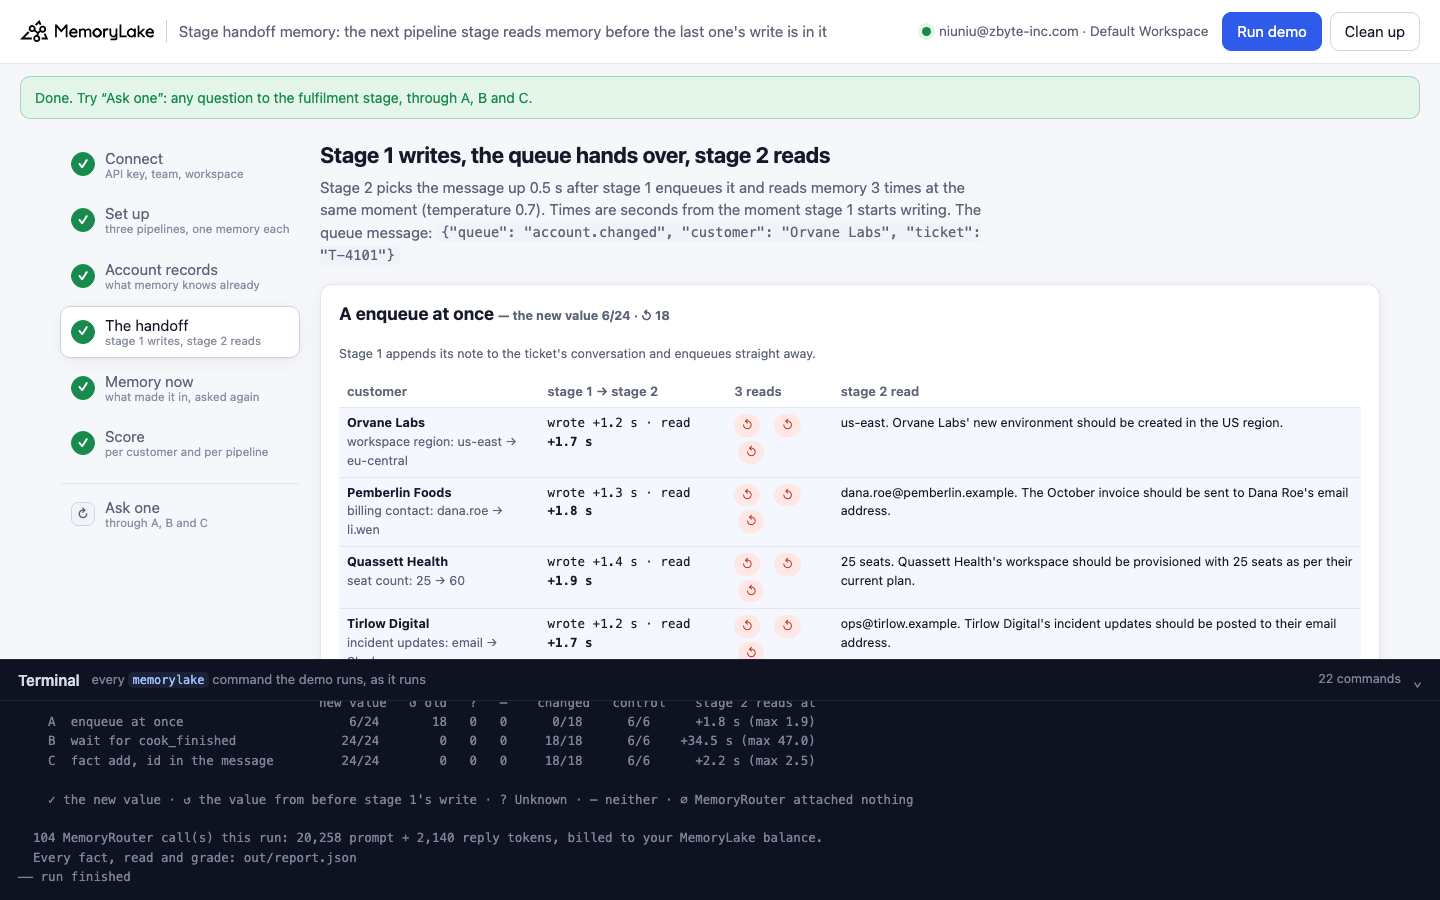
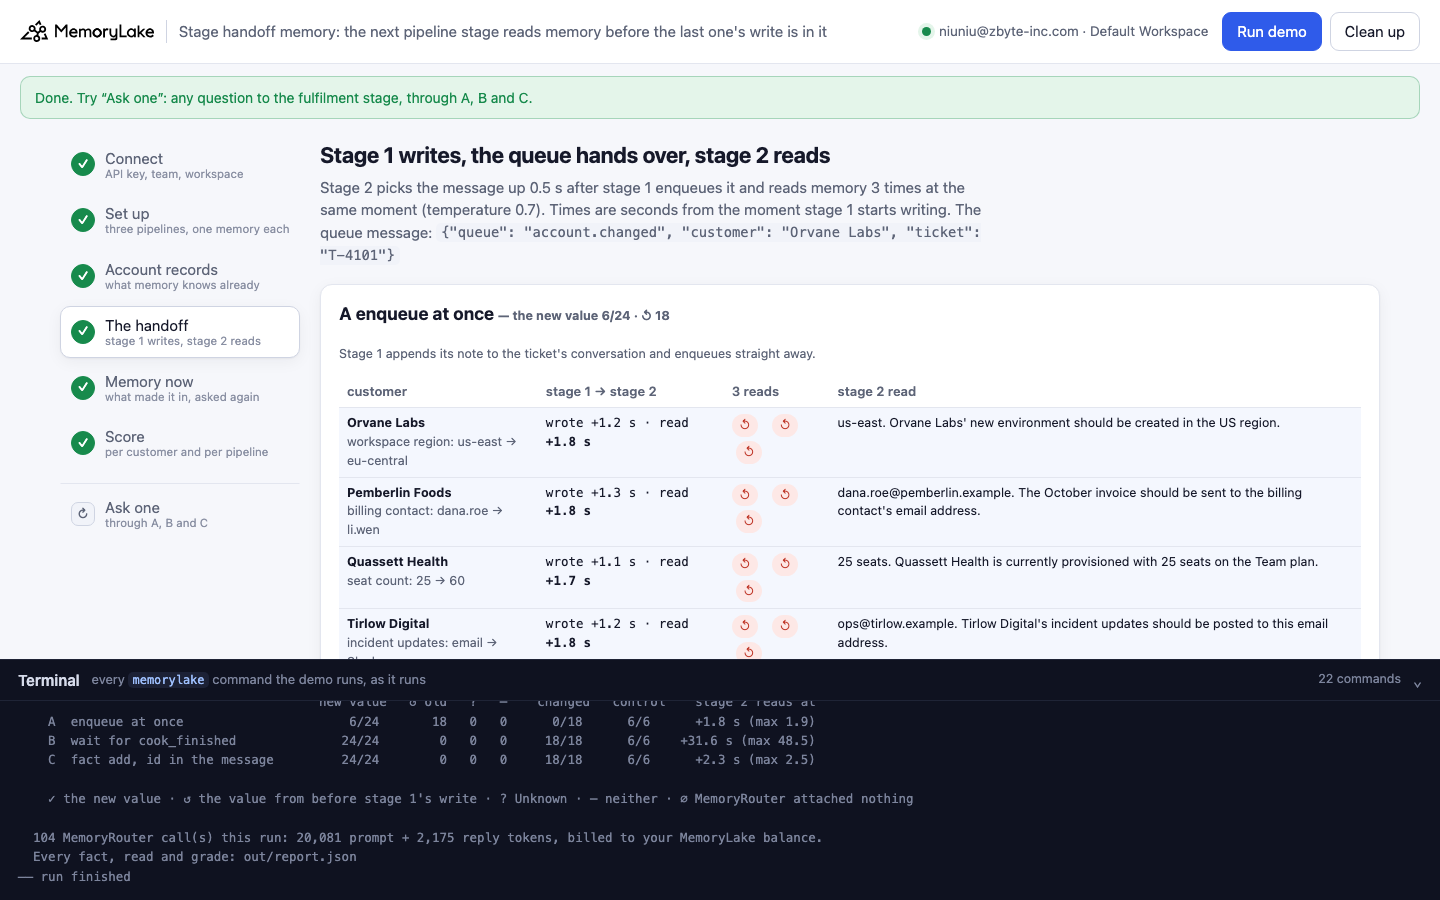
docs(stage-handoff-memory): videos on the v1 release; totals over 7 runs

diff --git a/stage-handoff-memory/README.md b/stage-handoff-memory/README.md
@@ -4,7 +4,8 @@ A runnable version of the MemoryLake use case
 [*Memory for Queue-Driven Agent Pipelines*](https://www.memorylake.ai/en/usecase/memory-for-queue-driven-agent-pipelines),
 built entirely on the [`memorylake` CLI](https://github.com/memorylake-ai/memorylake-cli) (v20261015 or later).
 
-**Watch it run:** videos are being recorded.
+**Watch it run:** [CLI, 4:59](https://github.com/memorylake-ai/memorylake-usecases/releases/download/stage-handoff-memory-v1/stage-handoff-memory-cli-demo.mp4) · [Web, 4:21](https://github.com/memorylake-ai/memorylake-usecases/releases/download/stage-handoff-memory-v1/stage-handoff-memory-web-demo.mp4)
+([release](https://github.com/memorylake-ai/memorylake-usecases/releases/tag/stage-handoff-memory-v1); GitHub serves them as downloads).
 
 **The problem.** In a queue-driven pipeline the messages stay light: stage 1 writes what it learned into shared
 memory and enqueues an id; stage 2 picks the message up and reads the context from memory. The queue hands a message
@@ -36,18 +37,18 @@ handoff runs through three pipelines, each with its own memory:
 | **B** | appends its note, waits until `conv consumed-messages --message` lists it and `conv cook-status` reports `cook_finished`, then enqueues | after extraction: 11 to 77 s |
 | **C** | appends its note **and** writes its result with `fact add` — dated, naming the value it replaces — then puts the fact id in the queue message and enqueues at once | about 2.5 s after the write |
 
-Over five runs (each read three times at temperature 0.7 — 72 reads per run):
+Over seven runs (each read three times at temperature 0.7 — 72 reads per run):
 
 | pipeline | the new value | ↺ the old value | changed customers | controls | stage 2 reads at (median) |
 |---|---|---|---|---|---|
-| A enqueue at once | 30/120 | **90** | **0/90** | 30/30 | +1.8 s |
-| B wait for `cook_finished` | 114/120 | 0 | 90/90 | **24/30** | **+38.8 s** (max 77.1) |
-| C `fact add` + id in the message | **120/120** | 0 | **90/90** | 30/30 | +2.4 s |
+| A enqueue at once | 42/168 | **126** | **0/126** | 42/42 | +1.8 s |
+| B wait for `cook_finished` | 162/168 | 0 | 126/126 | **36/42** | **+37.3 s** (max 77.1) |
+| C `fact add` + id in the message | **168/168** | 0 | **126/126** | 42/42 | +2.4 s |
 
-- **A** read the old value every time a value had changed: 90 of 90 reads, in every run. The controls were right
+- **A** read the old value every time a value had changed: 126 of 126 reads, in every run. The controls were right
   because nothing about them had changed.
-- **B** is right about the changed customers, but stage 2 waits a median 39 s for each message, and waiting made a
-  control wrong: in three runs out of five, extraction wrote Orvane's note as a fact with **no customer in it** —
+- **B** is right about the changed customers, but stage 2 waits a median 37 s for each message, and waiting made a
+  control wrong: in five runs out of seven, extraction wrote Orvane's note as a fact with **no customer in it** —
   *"New environments must be created in eu-central"* — and MemoryRouter attaches that fact to Brismoor's region
   question too. In two of those runs the fact was already there when Brismoor's stage 2 read, and all three reads
   answered *eu-central* for a customer who never asked to move.
@@ -209,16 +210,17 @@ memorylake fact list --projects proj-… --page-size 200 --workspace ws-…
 After the handoffs (and 20 s more), the demo lists each project's facts and asks every question once more. Two
 things show up here that the handoff itself does not:
 
-- **Extraction does not always keep the new value, or the customer.** Over five runs a fact naming the customer and
-  stating the new value was in A's memory for 26 of 30 changes and in B's for 29 of 30. In two runs A lost
+- **Extraction does not always keep the new value, or the customer.** Over seven runs a fact naming the customer
+  and stating the new value was in A's memory for 37 of 42 changes and in B's for 40 of 42. In two runs A lost
   Quassett's 60 seats: once merged into the September record as *"Quassett Health is on the Business plan with 25
   seats (previously … Team plan with 25 seats)"*, once as *"upgraded to the Business plan, effective 2026-10-18"*
   with no seat count — asked again, memory said 25 both times. The region change became *"New environments must be
-  created in eu-central"*, a fact with no customer in it, in A's memory in 2 runs and in B's in 3.
+  created in eu-central"*, a fact with no customer in it, in A's memory in 4 runs and in B's in 5.
 - **A fact with no customer in it answers every customer's question.** The demo prints these facts. Asked again,
   that fact made Orvane's answer right — and Brismoor's wrong (*"eu-central. New environments for Brismoor Freight
-  must be created in the eu-central region"*: A in 2 runs, B in 2). C's own facts always name the customer; its
-  notes are extracted too, but in these runs a subjectless fact never appeared in C's project.
+  must be created in the eu-central region"*: A in 4 runs, B in 4). C's own facts always name the customer; its
+  notes are extracted too, and once a subjectless fact did land in C's project (*"Invoices must not be sent to Dana
+  Roe"*, which no question reads) — never the region one.
 
 ### Step 6: the score
 
@@ -231,8 +233,8 @@ things show up here that the handoff itself does not:
 
 ## Measured
 
-Five runs: three `python3 demo.py` runs on the CLI, one in the browser, one more CLI run. Every stored reply was
-re-graded with the final grader (0 grades changed).
+Seven runs: three `python3 demo.py` runs on the CLI, one in the browser, one more CLI run, and the two recordings.
+Every stored reply was re-graded with the final grader (0 grades changed).
 
 | run | A new value (controls) | B new value (controls) | B median wait | C new value (controls) |
 |---|---|---|---|---|
@@ -241,10 +243,13 @@ re-graded with the final grader (0 grades changed).
 | 3 | 6/24 (6/6) | 21/24 (**3/6**) | 54.9 s | 24/24 (6/6) |
 | browser | 6/24 (6/6) | 24/24 (6/6) | 34.5 s | 24/24 (6/6) |
 | 4 | 6/24 (6/6) | 24/24 (6/6) | 51.4 s | 24/24 (6/6) |
+| CLI recording | 6/24 (6/6) | 24/24 (6/6) | 40.5 s | 24/24 (6/6) |
+| Web recording | 6/24 (6/6) | 24/24 (6/6) | 31.6 s | 24/24 (6/6) |
 
 In B's two bad runs the three wrong reads were Brismoor's: *eu-central*, from the subjectless fact above. Asked
-again after the handoffs, A was right 35 of 40 times, B 30 of 32 (run 1 asked only A again; B and C
-were added from run 2 on), C 32 of 32.
+again after the handoffs, A was right 49 of 56 times, B 44 of 48 (run 1 asked only A again; B and C
+were added from run 2 on), C 48 of 48 — every wrong later read was Brismoor's *eu-central* or a change A's
+extraction had lost.
 No read was ∅ in any run.
 
 ## What else we measured
@@ -253,12 +258,12 @@ These came from a probe before the demo was built (6 customers, one run each), n
 
 - **`cook_finished` is not a commit.** One change (Orvane's region) was read — `consumed-messages` listed it,
   `cook_finished` was true at +21 s — and no fact about it was ever written. 80 s later memory still said us-east.
-  Waiting for extraction tells you extraction ran, not that it kept what you wrote. It did not happen in the five demo
-  runs; B was 90/90 on the changed customers.
+  Waiting for extraction tells you extraction ran, not that it kept what you wrote. It did not happen in the seven demo
+  runs; B was 126/126 on the changed customers.
 - **A fact you write can still lose to an older one.** In the probe, C's first fact for Halvex was undated
   (*"Halvex Studio upgraded to the Business plan with 60 seats."*) next to the record *"… Team plan with 25 seats
   (as of 2026-09-02)"*. Reads at +0.7 s and +80 s gave the new plan; reads at +10, +20 and +40 s gave the old one.
-  The demo's C facts carry the date and name the value they replace, and were right in 120 of 120 reads.
+  The demo's C facts carry the date and name the value they replace, and were right in 168 of 168 reads.
 - **At-least-once delivery did not double anything.** We first tested whether a redelivered event ("bought a
   500-credit pack", delivered twice as two messages) would be counted twice. It was not: 0 of 6 duplicates became a
   second fact, and 0 of 36 answers doubled the total. Appending with `--custom-id <event id>` makes the redelivery a

diff --git a/README.md b/README.md
@@ -127,7 +127,7 @@ that memory can hold once it is more than coding sessions.
 | [showing-feedback-memory](showing-feedback-memory/) | Sales (real estate listing agents) | Buyer's agents text showing feedback without naming the house — the showing schedule knows which one it was — and each text becomes a fact with no address, so the listing assistant puts every house's concerns on whichever house you ask about (the Alder seller hears "overpriced, noisy, no garage"). Three memories through MemoryRouter: A texts as sent · B the address the app looked up stamped in front · C one record per showing, joined by the schedule. Over 9 runs: another house's feedback mixed in A 105/140 · B 8/132 · C 0/144; right C 144/144 | ~3 min | [CLI 4:37](https://github.com/memorylake-ai/memorylake-usecases/releases/download/showing-feedback-memory-v1/showing-feedback-memory-cli-demo.mp4) · [Web 5:47](https://github.com/memorylake-ai/memorylake-usecases/releases/download/showing-feedback-memory-v1/showing-feedback-memory-web-demo.mp4) |
 | [thread-reply-memory](thread-reply-memory/) | Operations (workplace / facilities teams) | A Slack channel saved the moment each message is posted: thread replies say "it" ("It goes ahead on 2 February"), each is read on its own, and Porto's date is merged into the Leeds move's date fact — Leeds now "goes ahead on 2 February, previously 9 March". Three memories of the same ten messages through MemoryRouter: A as sent, one conversation · B one conversation per thread · C each reply tagged with its thread's first message. Over 9 runs: values stored under the right move A 33/63 · B 61/63 · C 62/63; another move's value in the answer A 56/192 · B 0 · C 0; right B 203/216 · C 203/216 | ~6 min | [CLI 6:51](https://github.com/memorylake-ai/memorylake-usecases/releases/download/thread-reply-memory-v1/thread-reply-memory-cli-demo.mp4) · [Web 7:51](https://github.com/memorylake-ai/memorylake-usecases/releases/download/thread-reply-memory-v1/thread-reply-memory-web-demo.mp4) |
 | [presupposed-claim-memory](presupposed-claim-memory/) | Research & analytics (analysts using Perplexity) | Perplexity research threads saved as asked and answered. Week 1 keeps three things as claims (a rumoured deal, a company's own 91 percent, a plant expansion that is only a plan); later questions take them for granted ("Now that Halden Group owns Lithra Recycling…") and the answers never correct them — and the question's assumption comes back from memory as a fact ("Halden paid 410 million dollars for Lithra Recycling"; the verified 18,000 tonnes kept only after "previously"). Three memories through MemoryRouter: A as asked and answered · B the answers only · C as A + a finding log of status-tagged facts. Over 9 runs: unproven claim stated as fact A 71/216 · B 0/213 · C 40/216 | ~7 min | [CLI 7:30](https://github.com/memorylake-ai/memorylake-usecases/releases/download/presupposed-claim-memory-v1/presupposed-claim-memory-cli-demo.mp4) · [Web 9:46](https://github.com/memorylake-ai/memorylake-usecases/releases/download/presupposed-claim-memory-v1/presupposed-claim-memory-web-demo.mp4) |
-| [stage-handoff-memory](stage-handoff-memory/) | Engineering (queue-driven pipelines) | Stage 1 writes what a customer asked for into memory and enqueues a light message; stage 2 picks it up about a second later and asks memory through MemoryRouter before it acts. Extraction takes 10–77 s, so stage 2 reads the memory from before the write and acts on the old region, contact or seat count. Three pipelines: A enqueue at once · B wait for `cook_finished` · C also `fact add` a dated result fact and put its id in the queue message. Over 5 runs, changed customers: A 0/90 (90 old-value reads at +1.8 s), B 90/90 at a median +38.8 s, C 90/90 at +2.4 s; controls 30/30 · 24/30 · 30/30 — B's misses came from a fact extraction wrote with no customer in it | ~2.5 min | recording |
+| [stage-handoff-memory](stage-handoff-memory/) | Engineering (queue-driven pipelines) | Stage 1 writes what a customer asked for into memory and enqueues a light message; stage 2 picks it up about a second later and asks memory through MemoryRouter before it acts. Extraction takes 10–77 s, so stage 2 reads the memory from before the write and acts on the old region, contact or seat count. Three pipelines: A enqueue at once · B wait for `cook_finished` · C also `fact add` a dated result fact and put its id in the queue message. Over 7 runs, changed customers: A 0/126 (126 old-value reads at +1.8 s), B 126/126 at a median +37.3 s, C 126/126 at +2.4 s; controls 42/42 · 36/42 · 42/42 — B's misses came from a fact extraction wrote with no customer in it | ~2.5 min | [CLI 4:59](https://github.com/memorylake-ai/memorylake-usecases/releases/download/stage-handoff-memory-v1/stage-handoff-memory-cli-demo.mp4) · [Web 4:21](https://github.com/memorylake-ai/memorylake-usecases/releases/download/stage-handoff-memory-v1/stage-handoff-memory-web-demo.mp4) |
 
 The videos are real, unedited recordings; every asset lives on the [releases page](https://github.com/memorylake-ai/memorylake-usecases/releases).
 
